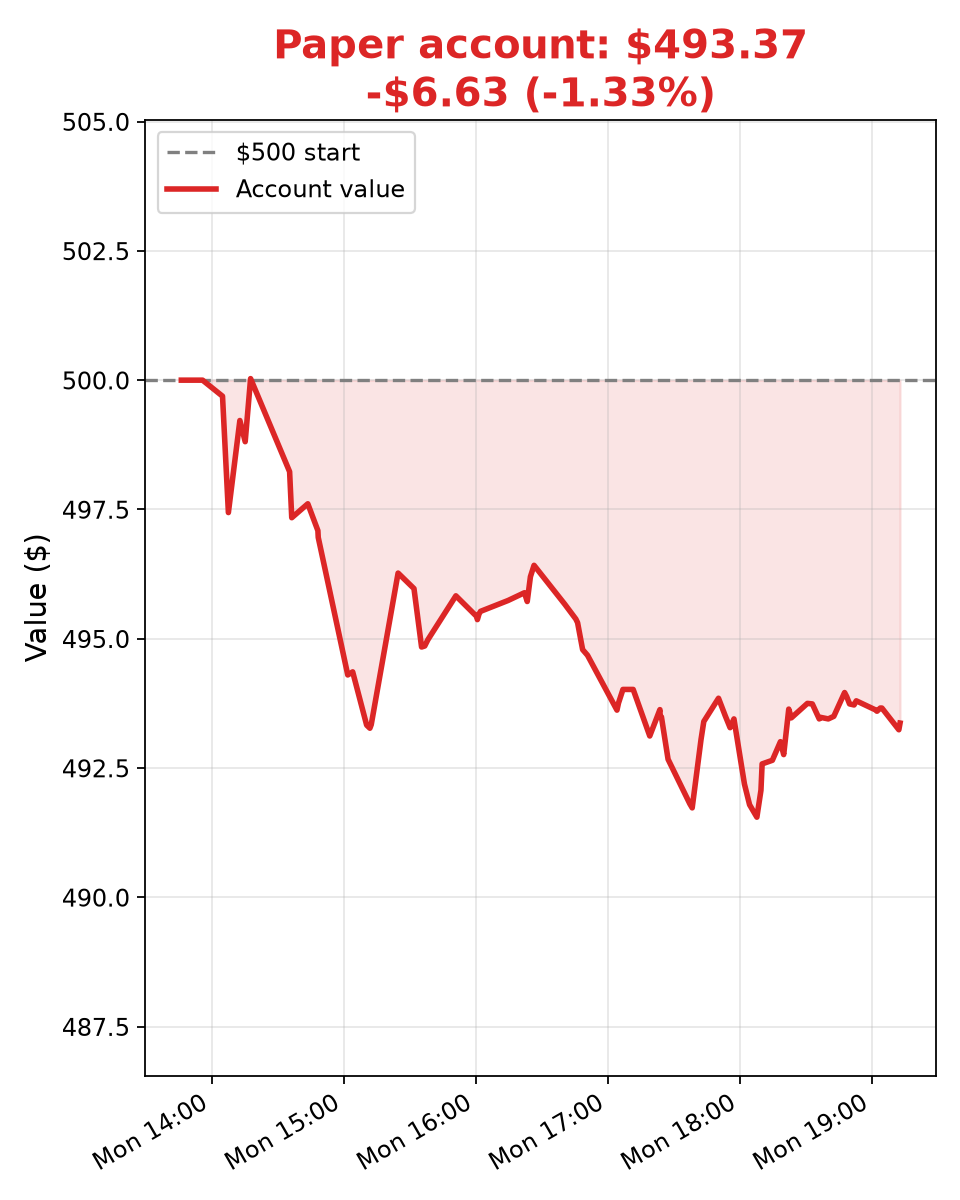
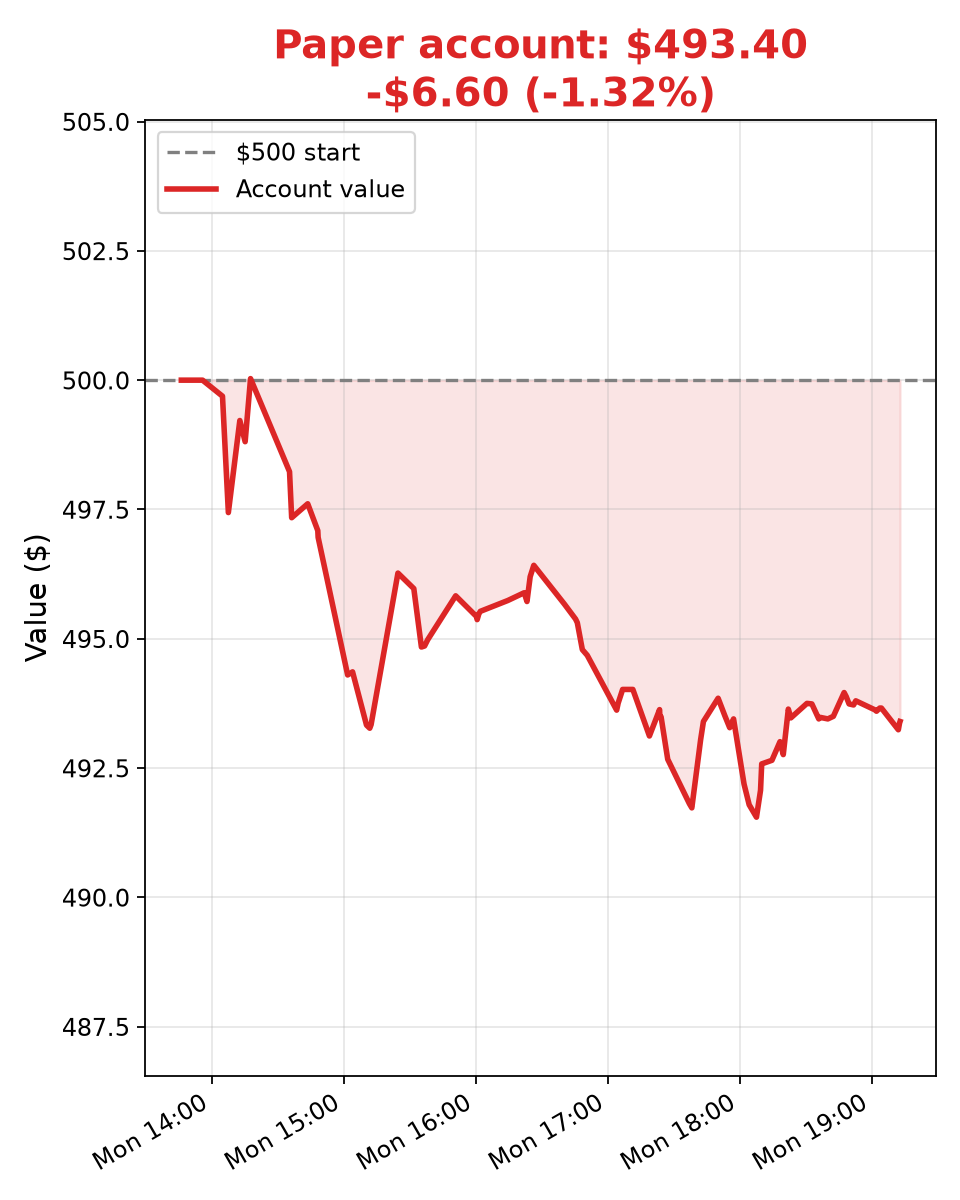
Update 2026-10-12T19:13:07Z

diff --git a/ledger.md b/ledger.md
@@ -120,3 +120,4 @@
 - 2026-10-12T19:04:27Z — total $493.66, cash $196.95 (Stock Bot mark, 2:04 PM CT, no trade; FRO 58.81, DHT 26.045 marked; no stops/targets hit — both flat in 3:00 PM ET window on light volume, still under entry; SPY 777.31 hugging LOD 777.05)
 - 2026-10-12T19:12:09Z — total $493.24, cash $196.95 (Jr mark, 2:12 PM CT, no trade; FRO 58.80, DHT 25.97 marked; no stops/targets hit — FRO tagged 58.95 on the 19:10 bar (close 58.93) but was rejected back to 58.80 next bar, DHT slipped back under the ~26.0 shelf; Jr add condition unmet)
 - 2026-10-12T19:12:42Z — total $493.37, cash $196.95 (Bot1 mark, 2:12 PM CT, no trade; FRO 58.82, DHT 25.985 marked; no stops/targets hit — FRO's 19:10 tag of 58.95 rejected on the 14k 19:11 bar, DHT back under ~26.0 shelf; add condition unmet)
+- 2026-10-12T19:12:56Z — total $493.40, cash $196.95 (Bot2 mark, 2:12 PM CT, no trade; FRO 58.83, DHT 25.985 marked; no stops/targets hit — FRO rejected the 19:10 poke to 58.95 back to 58.83, DHT still under the ~26.0 shelf at 25.985; both underwater vs entry, cash idle, no fresh catalyst)
